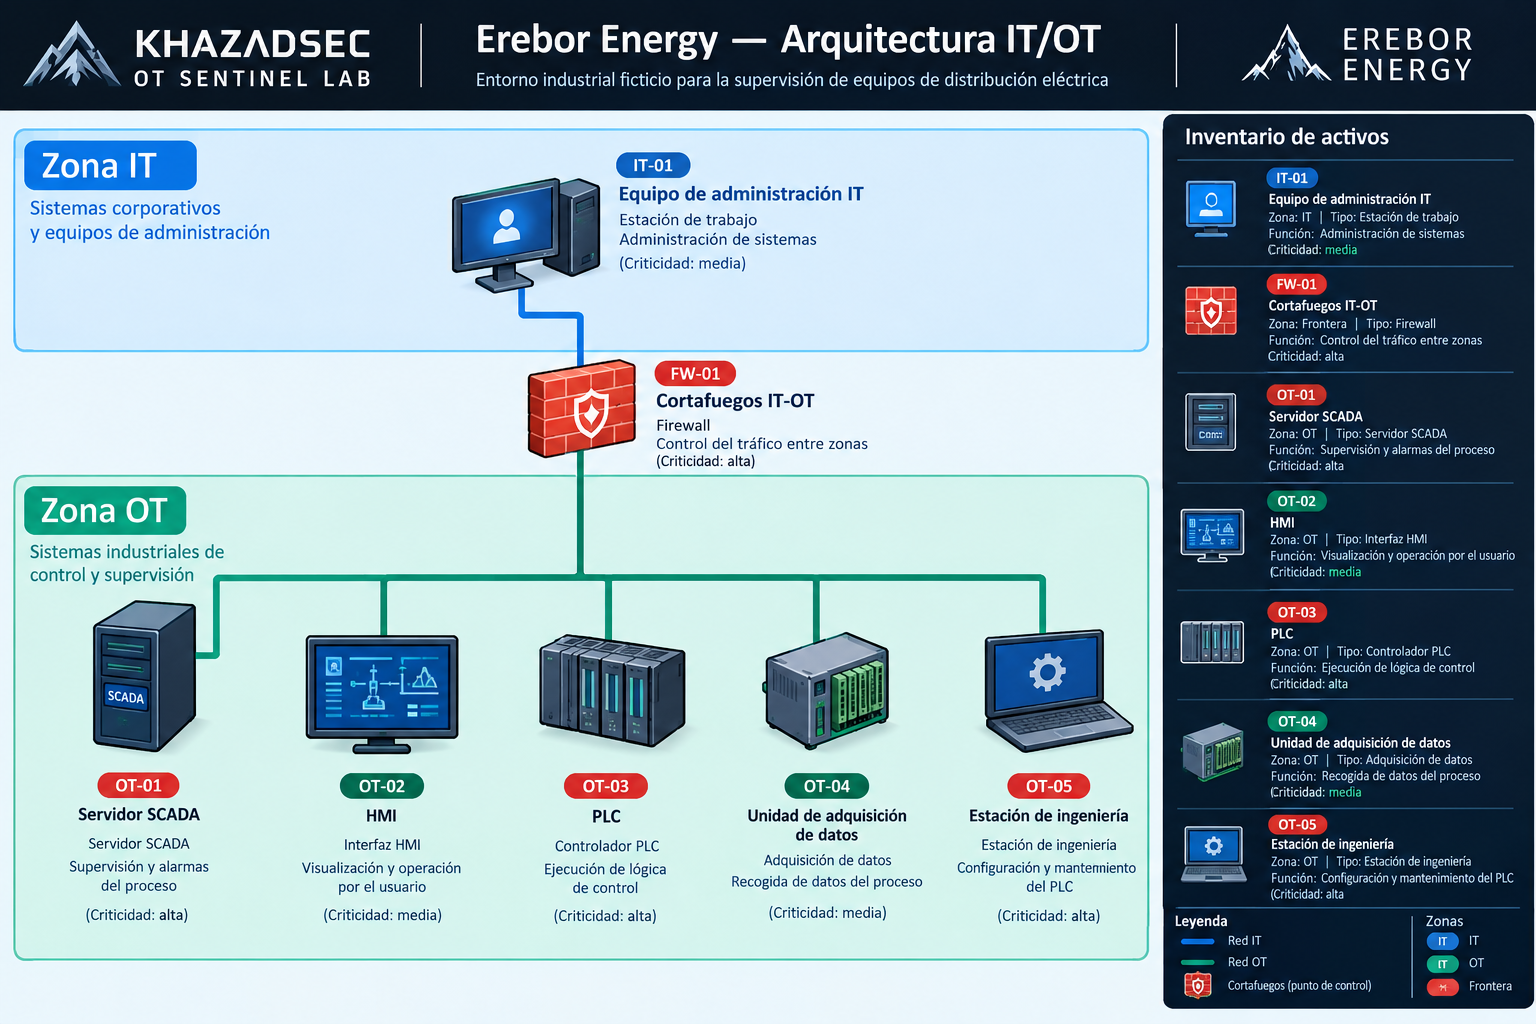
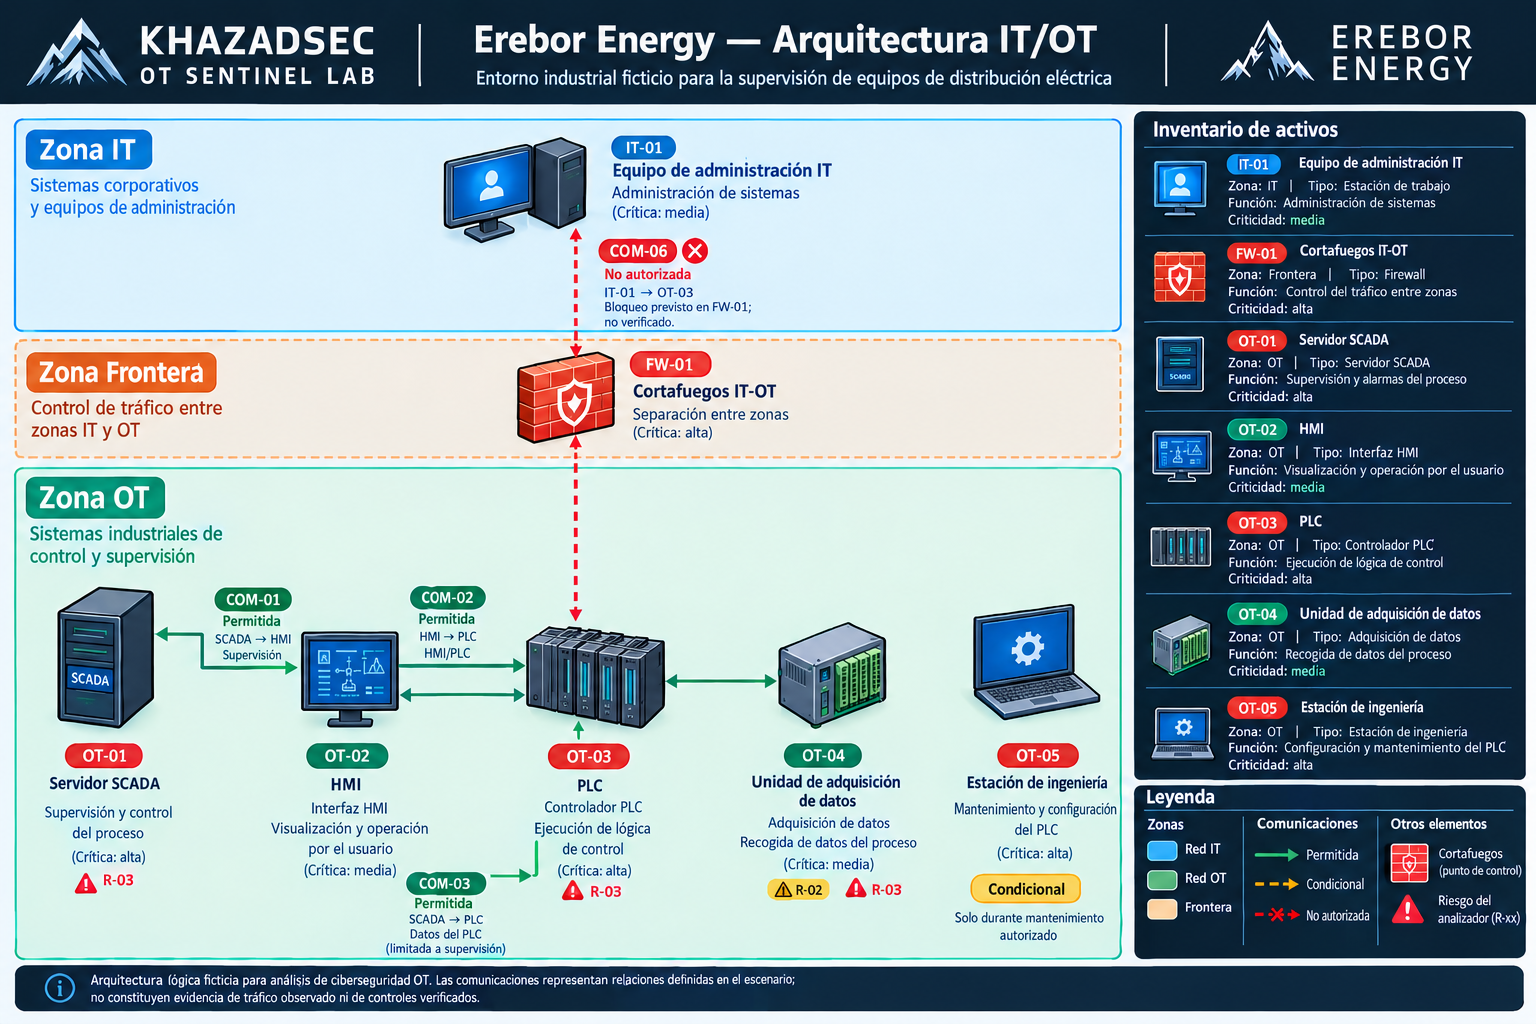
Finalizar documentación y preparación del portfolio

diff --git a/README.md b/README.md
@@ -31,7 +31,6 @@ El analizador implementa cuatro reglas:
 | R-03 | Política de actualizaciones no definida | Media |
 | R-04 | Comunicación condicional sin control previsto documentado | Media |
 
-Las prioridades son orientativas y corresponden al catálogo de reglas del laboratorio; no sustituyen una evaluación de riesgos contextualizada.
 
 ## Requisitos
 
@@ -75,6 +74,22 @@ Con los datos ficticios actuales, el analizador genera cinco hallazgos: uno de R
 
 Los resultados son comprobaciones basadas en las reglas definidas y en los datos de ejemplo; no constituyen evidencia de incidentes reales ni una auditoría de una instalación industrial.
 
+## Demostración
+
+### Ejecución del analizador
+
+El analizador valida los datos de entrada, ejecuta las cuatro reglas de detección y genera un informe CSV con los hallazgos identificados en el escenario ficticio.
+
+<img src="img/demo-analizador.JPG"/>
+
+### Ejecución de las pruebas automatizadas
+
+La suite de pruebas comprueba las reglas de detección, la validación de los datos y el comportamiento esperado del analizador.
+
+<img src="img/demo-pruebas.JPG">
+
+
+
 ## Resultado esperado
 
 Con los datos de ejemplo incluidos en el repositorio, la ejecución genera cinco hallazgos:
@@ -84,16 +99,19 @@ Con los datos de ejemplo incluidos en el repositorio, la ejecución genera cinco
 - 3 hallazgos R-03: política de actualizaciones no definida.
 - 0 hallazgos R-04: no hay comunicaciones que cumplan actualmente esa condición.
 
-El analizador también valida referencias entre comunicaciones e inventario. Si encuentra referencias a activos inexistentes, detiene el análisis y muestra un error de validación.
+El analizador también valida los datos de entrada, incluidos los campos obligatorios y las referencias entre comunicaciones e inventario. Si detecta errores de validación, detiene el análisis y no actualiza el informe.
+
+Los hallazgos se basan exclusivamente en las reglas y los datos ficticios del proyecto. No constituyen evidencia de incidentes reales ni una auditoría de una instalación industrial.
 
 ## Estructura del proyecto
 
 ```text
 data/       Inventario y comunicaciones de ejemplo en CSV
 docs/       Escenario, reglas de detección y formato de hallazgos
-img/        Banner y diagrama del escenario
-src/        Analizador Python
+img/        Banner, diagrama del escenario y capturas de demostración
 reports/    Informes generados durante la ejecución
+src/        Analizador Python
+tests/      Pruebas automatizadas del analizador
 ```
 
 ## Limitaciones
@@ -105,7 +123,4 @@ reports/    Informes generados durante la ejecución
 - Una política de actualizaciones no definida no demuestra que un activo esté desactualizado.
 - Los hallazgos dependen de los datos de entrada y de las reglas implementadas; no equivalen a una auditoría completa ni certifican la seguridad de una instalación.
 
-## Estado del proyecto
-
-Versión inicial funcional: inventario de ejemplo, catálogo de cuatro reglas, validación de datos y generación de informes CSV.
 
